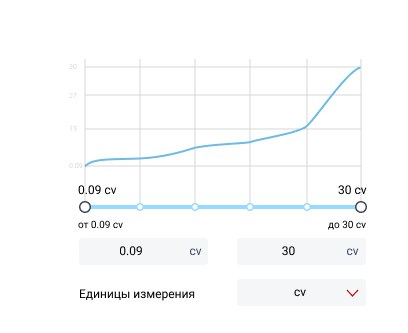
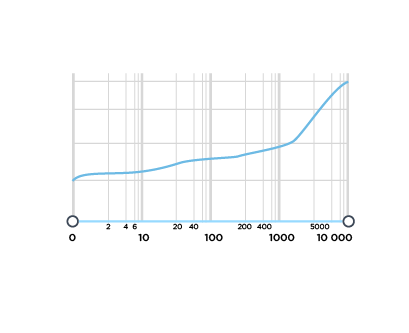
edit value slider

diff --git a/components/slider/ExpoSlider.tsx b/components/slider/ExpoSlider.tsx
@@ -1,0 +1,173 @@
+import { FC, ReactNode, useState } from "react";
+import { Slider as SliderA } from "antd";
+import SliderValueRange from "./SliderValueRange";
+
+interface ExpoSliderProps {
+    valuesCv: number[],
+    minPropValue?: number,
+    maxPropValue?: number,
+    onChange?: (target: [min: number, max: number]) => void,
+    format?: (value: number) => string | ReactNode,
+}
+
+interface iChangeKeys {
+    [key: number]: number,
+}
+interface iChangeKeysEmpty {
+    [key: string]: string,
+}
+
+const ExpoSlider: FC<ExpoSliderProps> = ({ valuesCv, minPropValue, maxPropValue, format, onChange }) => {
+    const minValue = Math.min(...valuesCv);
+    const maxValue = Math.max(...valuesCv);
+
+    let minDisplayValue = useState(minValue);
+    let maxDisplayValue = useState(maxValue);
+
+
+    // Делю массив на разряды десяток
+    let countRank = 0;
+    if (maxValue.toString().length > 2) {
+        countRank = maxValue.toString().length - 1
+    } else {
+        countRank = maxValue.toString().length
+    }
+
+    console.log(valuesCv)
+    let rankValueCv = new Array(countRank);
+    let prev = 0;
+    let curr = 10;
+    var lenghtPrevArr = 0;
+    var tempLenght = 0;
+    for (let i = 0; i < countRank; i++) {
+        let position = 0;
+        rankValueCv[i] = [];
+        if (i > 0) {
+            prev = curr;
+            curr = String(curr);
+            curr += '0';
+            curr = Number(curr);
+
+        }
+        for (let j = tempLenght; j < valuesCv.length; j++) {
+
+            if (valuesCv[j] >= prev && valuesCv[j] <= curr) {
+                rankValueCv[i][position] = valuesCv[j];
+                lenghtPrevArr = position;
+                position++;
+            } else {
+                tempLenght += ++lenghtPrevArr;
+                break;
+            }
+
+        }
+    }
+    console.log('Дроблённый массив на разряды', rankValueCv)
+    // Делю массив на разряды десяток
+
+    let changeKeys: iChangeKeys = {};
+    const changeKeysEmpty: iChangeKeysEmpty = {};
+
+    let maxRange: number = 0
+
+    let prevValue = 0;
+    rankValueCv.map((array, index) => {
+
+        let rangeEverySubArray = (maxValue / rankValueCv.length) * (index + 1)
+        if (index == 0) {
+            var firstValue = rangeEverySubArray / 3;
+        } else {
+            firstValue = 0;
+        }
+
+        array.map(item => {
+            if (firstValue != 0) {
+                changeKeys[firstValue] = item;
+                changeKeysEmpty[firstValue] = ' ';
+                prevValue = firstValue;
+                firstValue = 0;
+            } else {
+                maxRange = ((rangeEverySubArray - prevValue) / 2) + prevValue;
+                prevValue = maxRange;
+                changeKeys[maxRange] = item;
+                changeKeysEmpty[maxRange] = ' ';
+            }
+        })
+    })
+    console.log('Change Keys', changeKeys)
+
+    const formatter = (value: number) => {
+        return changeKeys[value];
+    };
+
+    const change = (target: [number, number]) => {
+        onChange([
+            formatter(target[0]),
+            formatter(target[1])
+        ]);
+    }
+
+    return <>
+        <SliderA
+            range
+            marks={changeKeysEmpty}
+            defaultValue={[minValue ?? minPropValue, maxRange ?? maxPropValue]}
+            // min={minValueValue}
+            max={maxRange}
+            onChange={change}
+            tooltip={{ formatter: (value?: number) => format ? format(formatter(value!)) : formatter(value!) }}
+            step={null}
+        />
+
+        <div className="d-flex justify-content-between">
+            <SliderValueRange
+                value={minDisplayValue}
+                unit={'cv'}
+            />
+            <SliderValueRange
+                value={maxDisplayValue}
+                unit={'cv'}
+            />
+        </div>
+    </>
+}
+
+export default ExpoSlider;
+
+
+
+    //     array.map((item, index) => {
+
+    //         if (index === 0) {
+    //             let firstValue = ((rangeEverySubArray / 3) * (index + 1)) //1333 | 2666 | 4000
+    //             // let firstValue = ((rangeEverySubArray / 3) * (index + 1)) * 2 //1333 | 2666 | 4000
+    //             maxRange = firstValue;
+    //             prevValue = maxRange;
+    //             console.log('First maxRange', maxRange, index)
+
+    //             changeKeys[maxRange] = item;
+    //             changeKeysEmpty[maxRange] = ' ';
+
+    //             console.log('First Range', maxRange)
+
+    //         } else {
+
+    //             maxRange = ((rangeEverySubArray - prevValue) / 2) + prevValue;
+    //             console.log('Other Range', maxRange)
+
+    //             changeKeys[maxRange] = item;
+    //             changeKeysEmpty[maxRange] = ' ';
+
+    //         }
+    //     })
+    // })
+
+    // let changeKeys : iChangeKeys = {};
+    // const changeKeysEmpty : iChangeKeysEmpty = {};
+
+    // let maxRange: number = 0
+    // valuesCv.map((itm, index) => {
+    //     maxRange = Math.round(distanceBetweenValueOnSlider * index);
+    //     changeKeys[maxRange] = itm;
+    //     changeKeysEmpty[maxRange] = ' ';
+    // })

diff --git a/pages/slider/index.tsx b/pages/slider/index.tsx
@@ -3,59 +3,54 @@ import Link from "next/link";
 import Image from "next/image";
 import Slider from "@/components/slider/Slider";
 import { LineChart, Line, CartesianGrid, XAxis, YAxis } from "recharts";
+import ExpoSlider from "@/components/slider/ExpoSlider";
+import { Tooltip } from "antd";
 
-const values = [1, 5, 12, 20,22, 30, 100];
+const values = [2,4,6,10,20,40,100,200,400,1000,5000,10000];
 const sortedArray = values.sort((a, b) => a - b);
 const minValue = Math.min(...sortedArray);
 const maxValue = Math.max(...sortedArray);
 
 let data = [
     {
-        value : values[0],
+        value: values[0],
     },
     {
-        value : values[1],
+        value: values[1],
     },
     {
-        value : values[2],
+        value: values[2],
     },
     {
-        value : values[3],
+        value: values[3],
     },
     {
-        value : values[4],
+        value: values[4],
     },
     {
-        value : values[5],
+        value: values[5],
     },
     {
-        value : values[6],
+        value: values[6],
+    },
+    {
+        value: values[7],
+    },
+    {
+        value: values[8],
+    },
+    {
+        value: values[9],
+    },
+    {
+        value: values[10],
+    },
+    {
+        value: values[11],
     },
 ];
-// values.map(el=> {
-//     data[value] = el;
-// })
-console.log(data)
-// const data = [
-//     {
-//         unit: values[0],
-//     },
-//     {
-//         unit: values[1],
-//     },
-//     {
-//         unit: values[2],
-//     },
-//     {
-//         unit: values[3]
-//     },
-//     {
-//         unit: values[4],
-//     },
-//     {
-//         unit: values[5],
-//     },
-// ];
+console.log(data);
+console.log(sortedArray.length);
 
 
 export default function () {
@@ -74,47 +69,36 @@ export default function () {
         <hr />
 
         <h1>МОЙ</h1>
-        <div className="container-xxl" style={{ outline: '1px solid #000' }}>
+        <div className="container-xxl p-0" style={{ outline: '1px solid #000',width:'1000px'}}>
 
-            <LineChart 
-            width={1100} 
-            height={300} 
-            margin={{
-                top:20,
-                right:20,
-                left:20,
-            }} 
-            data={data}>
+            <LineChart
+                width={1000}
+                height={300}
+                margin={{
+                    top: 20,
+                    right: 20,
+                    left: 20,
+                }}
+                data={data}
+            >
 
                 <Line type="monotone" dataKey="value" stroke="#0085FF" />
                 <CartesianGrid stroke="#ccc" />
-                <XAxis dataKey=" " /> {/* Ошибка из за hide,если есть. Она делает чистой X */}
-                {/* <XAxis dataKey="unit" name=" " />*/}
-                <YAxis dataKey="value" domain={[minValue,maxValue]} tickCount={sortedArray.length} />
-                {/* <YAxis dataKey="unit" domain={sortedArray} /> */}
+                <XAxis dataKey="value" /> 
+                <YAxis domain={[0,10000]} tickCount={10}/>
 
             </LineChart>
 
-            {/* <Slider valuesCv={values} minValue={1} maxValue={20}/> */}
-            {/* <Slider valuesCv={values} format={(value) => `${value} cv`} /> */}
+            <ExpoSlider
+                valuesCv={sortedArray}
+                onChange={() => { }}
+            />
 
-            {/* <VictoryChart
-                theme={VictoryTheme.material}
-            >
-                <VictoryLine
-                    style={{
-                        data: { stroke: "#0085FF" },
-                        parent: { border: "1px solid #ccc" }
-                    }}
-                    data={[
-                        { x: 1, y: values[0] },
-                        { x: 2, y: values[1] },
-                        { x: 3, y: 5 },
-                        { x: 4, y: 4 },
-                        { x: '', y: 7 }
-                    ]}
-                />
-            </VictoryChart> */}
+            {/* <Slider
+             valuesCv={values}
+              format={(value) => `${value} cv`} 
+              onChange={()=>{}}
+              /> */}
         </div>
 
         <hr />

diff --git a/pages/CartComponent.tsx b/pages/CartComponent.tsx
@@ -17,7 +17,7 @@ const CartComponent: FC<LinkProps> = ({ link, title, description }) => {
     return <div className="card mb-5" >
         <div className="p-5 d-flex justify-content-center           " style={{background: '#eee'}}>
             <div className="shadow-lg">
-                <Image style={{maxHeight: 300, width: 'auto'}} src={image} alt={link} />
+                <Image style={{maxHeight: 500, width: 'auto'}} src={image} alt={link} />
             </div>
         </div>
         <div className="card-body">
